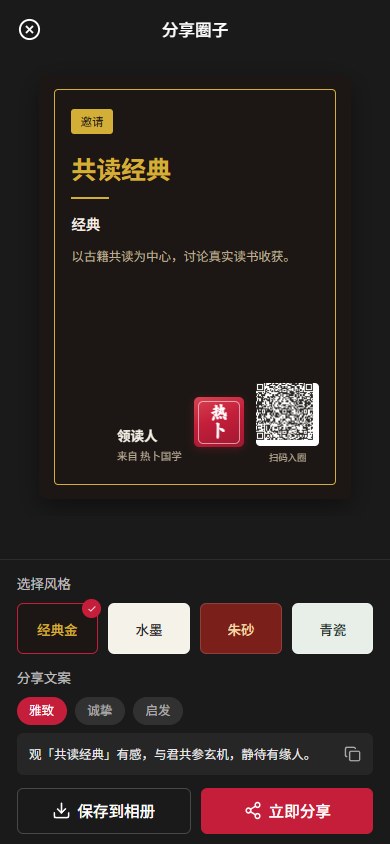
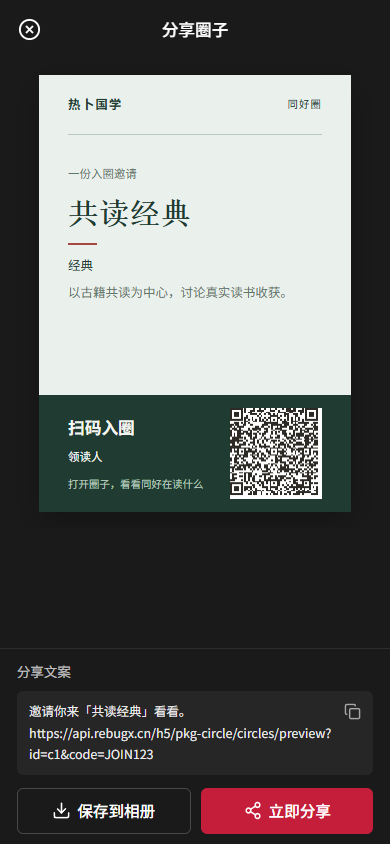
重构圈子邀请海报视觉并校验导出图片

diff --git a/apps/mobile/src/pkg-circle/common/share-poster/index.vue b/apps/mobile/src/pkg-circle/common/share-poster/index.vue
@@ -30,7 +30,28 @@
       <scroll-view scroll-y class="poster-scroll">
         <view class="poster-preview">
           <!-- 可视海报卡片（与 canvas 同构，用于展示） -->
-          <view class="poster-card" :style="{ background: activeTheme.bg }">
+          <view v-if="posterType === 'circle'" class="circle-invite">
+            <view class="circle-invite__masthead">
+              <text class="circle-invite__brand">{{ BRAND.name }}</text>
+              <text class="circle-invite__section">同好圈</text>
+            </view>
+            <view class="circle-invite__body">
+              <text class="circle-invite__eyebrow">{{ verifiedInviteCode ? '一份入圈邀请' : '与同好相遇' }}</text>
+              <text class="circle-invite__title">{{ posterData.title }}</text>
+              <view class="circle-invite__rule" />
+              <text v-if="posterData.subtitle" class="circle-invite__category">{{ posterData.subtitle }}</text>
+              <text class="circle-invite__description">{{ posterData.desc }}</text>
+            </view>
+            <view class="circle-invite__footer">
+              <view class="circle-invite__footer-copy">
+                <text class="circle-invite__scan">{{ posterData.qrLabel }}</text>
+                <text class="circle-invite__owner">{{ posterData.author || BRAND.name }}</text>
+                <text class="circle-invite__hint">打开圈子，看看同好在读什么</text>
+              </view>
+              <canvas canvas-id="previewQr" id="previewQr" class="circle-invite__qr" />
+            </view>
+          </view>
+          <view v-else class="poster-card" :style="{ background: activeTheme.bg }">
             <view class="poster-card__border" :style="{ borderColor: activeTheme.accent }">
               <view class="poster-card__tag" :style="{ background: activeTheme.accent, color: activeTheme.headerStyle === 'dark' ? activeTheme.bg : '#ffffff' }">
                 {{ posterData.tag }}
@@ -76,7 +97,7 @@
       <!-- 底部操作面板 -->
       <view class="panel">
         <!-- 风格选择 -->
-        <view class="panel__section">
+        <view v-if="posterType !== 'circle'" class="panel__section">
           <text class="panel__label">选择风格</text>
           <view class="theme-list">
             <view
@@ -100,7 +121,7 @@
         <!-- 分享文案 -->
         <view class="panel__section">
           <text class="panel__label">分享文案</text>
-          <view class="tone-tabs">
+          <view v-if="posterType !== 'circle'" class="tone-tabs">
             <view
               v-for="(t, i) in SHARE_TONES"
               :key="t.tone"
@@ -186,17 +207,19 @@ const posterTempPath = ref('')
 const showShareSheet = ref(false)
 const { toAppMessage, toTimeline } = useShare()
 
-// canvas 逻辑尺寸（px，比例 3:4）
-const canvasW = 300
-const canvasH = 420
+// 导出用双倍像素，版式仍按 300 × 420 逻辑尺寸绘制，分享时文字与二维码更清晰。
+const canvasW = 600
+const canvasH = 840
 
 const typeTitle = computed(() => getPosterTypeTitle(posterType.value))
 /** 印面文字：品牌名前二字（nameShort 缺省时回退全名取前二字） */
 const sealChars = computed(() => Array.from(BRAND.nameShort || BRAND.name).slice(0, 2).join(''))
 const activeTheme = computed(() => POSTER_THEMES[themeIndex.value])
-const currentTone = computed(() =>
-  posterData.value ? SHARE_TONES[toneIndex.value].build(posterData.value.title) : '',
-)
+const currentTone = computed(() => {
+  if (!posterData.value) return ''
+  if (posterType.value === 'circle') return `邀请你来「${posterData.value.title}」看看。${posterData.value.link}`
+  return SHARE_TONES[toneIndex.value].build(posterData.value.title)
+})
 const shareKind = computed(() => {
   const kinds = {
     invite: 'circle',
@@ -271,8 +294,18 @@ function drawPoster() {
   if (!data) return
   const theme = activeTheme.value
   const ctx = uni.createCanvasContext('posterCanvas')
-  const W = canvasW
-  const H = canvasH
+  const W = 300
+  const H = 420
+  ctx.scale(2, 2)
+
+  if (posterType.value === 'circle') {
+    drawCircleInvite(ctx, data, W, H)
+    exportPoster(ctx)
+    const pctx = uni.createCanvasContext('previewQr')
+    drawQrToCanvas(pctx, data.link, 0, 0, 88, { padding: 5 })
+    pctx.draw()
+    return
+  }
 
   // 背景
   ctx.setFillStyle(theme.bg)
@@ -333,6 +366,15 @@ function drawPoster() {
   const SEAL = 48
   drawSealOnCanvas(ctx, sealChars.value, W - 32 - QR - 12 - SEAL, H - 32 - SEAL, SEAL)
 
+  exportPoster(ctx)
+
+  // 预览区的小二维码（与导出图同一 link，保证所见即所存）
+  const pctx = uni.createCanvasContext('previewQr')
+  drawQrToCanvas(pctx, data.link, 0, 0, 56, { padding: 2 })
+  pctx.draw()
+}
+
+function exportPoster(ctx: UniApp.CanvasContext) {
   ctx.draw(false, () => {
     setTimeout(() => {
       uni.canvasToTempFilePath({
@@ -345,10 +387,53 @@ function drawPoster() {
     }, 150)
   })
 
-  // 预览区的小二维码（与导出图同一 link，保证所见即所存）
-  const pctx = uni.createCanvasContext('previewQr')
-  drawQrToCanvas(pctx, data.link, 0, 0, 56, { padding: 2 })
-  pctx.draw()
+}
+
+/** 圈子邀请采用扉页式信息层级；预览和导出使用同一文案与同一二维码链接。 */
+function drawCircleInvite(ctx: UniApp.CanvasContext, data: PosterData, W: number, H: number) {
+  const ink = '#203B32'
+  const muted = '#5F756B'
+  ctx.setFillStyle('#EAF0EC')
+  ctx.fillRect(0, 0, W, H)
+  ctx.setFillStyle(ink)
+  ctx.setTextAlign('left')
+  ctx.setFontSize(12)
+  ctx.fillText(BRAND.name, 28, 37)
+  ctx.setTextAlign('right')
+  ctx.setFontSize(10)
+  ctx.fillText('同好圈', W - 28, 37)
+  ctx.setFillStyle('#B9C9BF')
+  ctx.fillRect(28, 56, W - 56, 1)
+  ctx.setTextAlign('left')
+  ctx.setFillStyle(muted)
+  ctx.setFontSize(11)
+  ctx.fillText(verifiedInviteCode.value ? '一份入圈邀请' : '与同好相遇', 28, 92)
+  ctx.setFillStyle(ink)
+  ctx.setFontSize(29)
+  ctx.font = '700 29px "Songti SC", STSong, SimSun, serif'
+  wrapText(ctx, data.title, 28, 136, W - 56, 36, 2)
+  ctx.font = '12px sans-serif'
+  ctx.setFillStyle('#A54842')
+  ctx.fillRect(28, 186, 28, 2)
+  if (data.subtitle) {
+    ctx.setFillStyle(ink)
+    ctx.setFontSize(12)
+    ctx.fillText(data.subtitle, 28, 216)
+  }
+  ctx.setFillStyle(muted)
+  ctx.setFontSize(12)
+  wrapText(ctx, data.desc, 28, 245, W - 56, 19, 3)
+  ctx.setFillStyle(ink)
+  ctx.fillRect(0, 308, W, H - 308)
+  ctx.setFillStyle('#F4F6F2')
+  ctx.setFontSize(16)
+  ctx.fillText(data.qrLabel, 28, 343)
+  ctx.setFontSize(11)
+  wrapText(ctx, data.author || BRAND.name, 28, 367, 138, 16, 1)
+  ctx.setFillStyle('#B6C9BC')
+  ctx.setFontSize(10)
+  ctx.fillText('打开圈子，看看同好在读什么', 28, 398)
+  drawQrToCanvas(ctx, data.link, W - 116, 320, 88, { padding: 5 })
 }
 
 // 重绘随主题切换
@@ -597,6 +682,74 @@ onMounted(() => {})
   justify-content: center;
   padding: 32rpx 48rpx;
 }
+.circle-invite {
+  width: 600rpx;
+  height: 840rpx;
+  overflow: hidden;
+  display: flex;
+  flex-direction: column;
+  background: #eaf0ec;
+  box-shadow: 0 20rpx 60rpx rgba(0, 0, 0, 0.24);
+}
+.circle-invite__masthead {
+  height: 116rpx;
+  flex: none;
+  margin: 0 56rpx;
+  border-bottom: 2rpx solid #b9c9bf;
+  display: flex;
+  align-items: center;
+  justify-content: space-between;
+  color: #203b32;
+}
+.circle-invite__brand { font-size: 24rpx; font-weight: 700; letter-spacing: 2rpx; }
+.circle-invite__section { font-size: 20rpx; letter-spacing: 2rpx; }
+.circle-invite__body {
+  flex: 1;
+  display: flex;
+  flex-direction: column;
+  padding: 56rpx 56rpx 0;
+  min-height: 0;
+}
+.circle-invite__eyebrow { color: #5f756b; font-size: 22rpx; margin-bottom: 24rpx; }
+.circle-invite__title {
+  color: #203b32;
+  font-family: 'Songti SC', 'STSong', serif;
+  font-size: 58rpx;
+  font-weight: 700;
+  line-height: 1.22;
+  max-height: 144rpx;
+  overflow: hidden;
+}
+.circle-invite__rule { width: 56rpx; height: 4rpx; background: #a54842; margin: 22rpx 0 20rpx; }
+.circle-invite__category { color: #203b32; font-size: 24rpx; margin-bottom: 14rpx; }
+.circle-invite__description {
+  color: #5f756b;
+  font-size: 24rpx;
+  line-height: 1.58;
+  max-height: 114rpx;
+  overflow: hidden;
+}
+.circle-invite__footer {
+  height: 224rpx;
+  flex: none;
+  display: flex;
+  align-items: center;
+  justify-content: space-between;
+  padding: 0 56rpx;
+  background: #203b32;
+}
+.circle-invite__footer-copy { display: flex; flex-direction: column; min-width: 0; flex: 1; }
+.circle-invite__scan { color: #f4f6f2; font-size: 32rpx; font-weight: 600; margin-bottom: 12rpx; }
+.circle-invite__owner {
+  color: #f4f6f2;
+  font-size: 22rpx;
+  max-width: 270rpx;
+  overflow: hidden;
+  text-overflow: ellipsis;
+  white-space: nowrap;
+}
+.circle-invite__hint { color: #b6c9bc; font-size: 20rpx; margin-top: 20rpx; white-space: nowrap; }
+.circle-invite__qr { width: 176rpx; height: 176rpx; flex: none; background: #fff; }
 .poster-card {
   width: 600rpx;
   border-radius: 16rpx;

diff --git a/docs/progress/圈子板块全域审计与发布边界-20260922.md b/docs/progress/圈子板块全域审计与发布边界-20260922.md
@@ -70,3 +70,5 @@
 2026-09-23 通知与邀请码可靠性补强：单条通知的“标记已读”写入失败时改为重新读取服务器状态，避免本地长期显示错误的已读结果。邀请码页从海报等页面返回时刷新可用码与邀请统计；统计读取失败时仍可正常复制、分享有效邀请码，统计单独标为暂不可用，不显示虚假零值，刷新中也保留故障提示。复制与分享前再次检查本地邀请码的到期时间和已知使用次数，发现失效后提示并刷新；过期码不会被小程序分享回调带出。并发在别处用尽的号码仍需服务端校验，不能仅凭页面状态保证分享链接有效。隔离 H5 新回归 `tests/release/circle-invite-refresh-browser.mjs`（8 项，只读）及扩展后的圈内通知回归（9 项，1 次仅本地夹具拦截的失败 PUT）通过；既有免费圈邀请码直达、圈规确认和付费圈不带码回归也通过。最终源码移动端类型检查和小程序正式构建通过，615 个 WXML、2683 个文本产物校验通过；主包 1.63 MB、保守上传估算 1.92 MB（余量 0.08 MB）、圈子分包 1.01 MB。真实邀请码失效时序、微信分享与通知服务故障仍需目标环境/真机验收。
 
 2026-09-23 圈子海报分享闭环：原“生成海报”从免费圈邀请码页进入通用圈子海报，二维码与分享链接只指向圈子详情、没有邀请码，和页面“邀请好友加入”的承诺不符。现从邀请码页传入当前有效码，海报数据层再次向圈主邀请码列表核验归属与可用状态；有效时二维码、分享面板 URL 和小程序分享路径统一指向带码圈子预览页，普通圈子海报仍指向详情页。失效码或读取失败时显示明确错误及返回/重试，不再永久转圈，也不生成无效海报；图片尚未绘制完成时不再提示“已保存”。视觉复核缩短二维码说明并同时画入导出图，H5 截图在 `artifacts/circle-invite-poster-20260923/invite-poster-h5.png`。`tests/release/circle-invite-poster-browser.mjs` 用隔离接口验证带码链接、失效错误、普通海报不带码（11 项，0 业务写入），既有邀请入圈与过期刷新回归通过；最终源码类型检查和小程序正式构建通过，615 个 WXML、2683 个文本产物校验通过；主包 1.63 MB、保守上传估算 1.92 MB（余量 0.08 MB）、圈子分包 1.01 MB。H5 截图不等于导出图片可扫码，仍需在小程序和 APP 真机保存、扫码与分享回跳验收；码发出后若被别人用尽，服务端兑换校验仍是最终准入控制。
+
+2026-09-23 圈子邀请海报视觉重构：针对用户指出的模板感和 AI 味，只重做 `type=circle` 的邀请海报，其他内容海报保留现有设计。采用古籍扉页的信息层级：冷色纸面、深松绿墨色、大字号圈名、克制的朱色短线；底部深色区直接承载「扫码入圈」、邀请人和真实二维码。移除圈子海报的通用金框、印章、四套主题与套话式文案，分享文案改为真实圈名加可复制的落地链接。预览和 canvas 导出分别按同一布局绘制；导出提升到 600×840，H5 实际下载图见 `artifacts/circle-invite-poster-20260923/invite-poster-export.png`，页面预览见同目录 `invite-poster-h5.png`。隔离浏览器回归验证有效邀请码链接、失效错误、普通海报无邀请码、真实图片下载（12 项，0 业务写入）。二维码来自真实落地链接，尚需小程序与 APP 真机保存后扫码、入圈和分享回跳验收；本批不发布。
